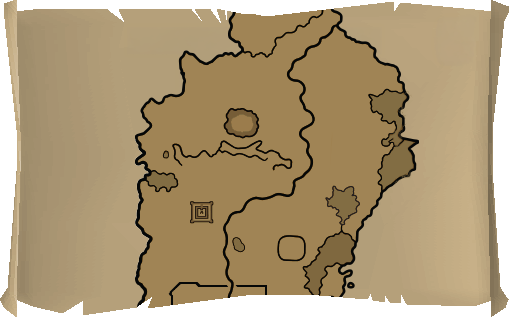
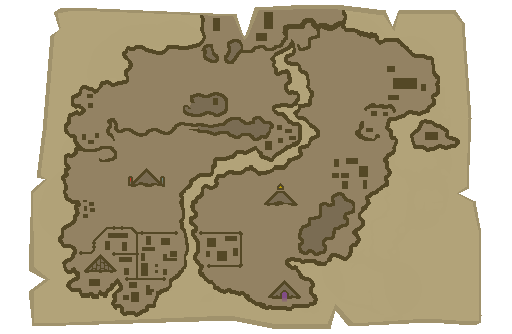
Tweaks following Magic Carpet addition. - Use new assets - Avoid leaking widgets - On carpet hover, highlight chat text - Highlight consistently with other maps - Avoid interface click-through

diff --git a/src/main/java/com/mjhylkema/TeleportMaps/components/MagicCarpetMap.java b/src/main/java/com/mjhylkema/TeleportMaps/components/MagicCarpetMap.java
@@ -13,6 +13,7 @@ import java.awt.image.BufferedImage;
 import java.util.ArrayList;
 import java.util.HashMap;
 import java.util.List;
+import java.util.Objects;
 import javax.inject.Inject;
 import lombok.extern.slf4j.Slf4j;
 import net.runelite.api.ChatMessageType;
@@ -38,8 +39,8 @@ public class MagicCarpetMap extends BaseMap
 
 	/* Sprite IDs, dimensions and positions */
 	private static final int MAP_SPRITE_ID = -19800;
-	private static final int MAP_SPRITE_WIDTH = 509;
-	private static final int MAP_SPRITE_HEIGHT = 317;
+	private static final int MAP_SPRITE_WIDTH = 512;
+	private static final int MAP_SPRITE_HEIGHT = 334;
 	private static final int CARPET_SPRITE_ID = -19801;
 	private static final int CARPET_HIGHLIGHTED_SPRITE_ID = -19802;
 	private static final int CARPET_SELECTED_SPRITE_ID = -19803;
@@ -47,17 +48,17 @@ public class MagicCarpetMap extends BaseMap
 	private static final int CLOSE_BUTTON_SPRITE_ID = 537;
 	private static final int CLOSE_BUTTON_WIDTH = 26;
 	private static final int CLOSE_BUTTON_HEIGHT = 23;
-	private static final int CLOSE_BUTTON_X = 447;
+	private static final int CLOSE_BUTTON_X = 427;
 	private static final int CLOSE_BUTTON_Y = 24;
 
 	/* The carpet's hover, selected and disabled sprites are generated
 	   from the single base image at startup */
 	private static final String IMG_CARPET = "/MagicCarpetMap/Carpet.png";
-	private static final Color HOVER_STROKE_INNER = new Color(238, 235, 18);
-	private static final Color HOVER_STROKE_OUTER = new Color(149, 150, 44);
-	private static final Color SELECTED_STROKE_INNER = new Color(106, 238, 18);
-	private static final Color SELECTED_STROKE_OUTER = new Color(86, 150, 44);
-	private static final float DISABLED_BRIGHTNESS = 0.55f;
+	private static final Color HOVER_STROKE_INNER = new Color(188, 144, 0);
+	private static final Color HOVER_STROKE_OUTER = new Color(255, 191, 0);
+	private static final Color SELECTED_STROKE_INNER = new Color(86, 150, 44);
+	private static final Color SELECTED_STROKE_OUTER = new Color(106, 238, 18);
+	private static final float DISABLED_BRIGHTNESS = 0.70f;
 
 	private static final int DIALOG_OPTION_GROUP_ID = 219;
 	private static final int DIALOG_OPTION_CONTAINER_CHILD = 1;
@@ -118,7 +119,7 @@ public class MagicCarpetMap extends BaseMap
 		BufferedImage base = ImageUtil.loadImageResource(TeleportMapsPlugin.class, IMG_CARPET);
 
 		this.registerSprite(CARPET_SPRITE_ID, base);
-		this.registerSprite(CARPET_HIGHLIGHTED_SPRITE_ID, outline(base, HOVER_STROKE_INNER, HOVER_STROKE_OUTER));
+		this.registerSprite(CARPET_HIGHLIGHTED_SPRITE_ID, outline(vibrant(base), HOVER_STROKE_INNER, HOVER_STROKE_OUTER));
 		this.registerSprite(CARPET_SELECTED_SPRITE_ID, outline(base, SELECTED_STROKE_INNER, SELECTED_STROKE_OUTER));
 		this.registerSprite(CARPET_DISABLED_SPRITE_ID, grayscale(base));
 	}
@@ -134,7 +135,7 @@ public class MagicCarpetMap extends BaseMap
 	 */
 	private static BufferedImage outline(BufferedImage image, Color inner, Color outer)
 	{
-		return ImageUtil.outlineImage(ImageUtil.outlineImage(image, inner), outer);
+		return ImageUtil.outlineImage(ImageUtil.outlineImage(image, inner,true), outer, true);
 	}
 
 	private static BufferedImage grayscale(BufferedImage image)
@@ -153,6 +154,42 @@ public class MagicCarpetMap extends BaseMap
 				out.setRGB(x, y, (a << 24) | (grey << 16) | (grey << 8) | grey);
 			}
 		}
+		return out;
+	}
+
+	private static BufferedImage vibrant(BufferedImage image)
+	{
+		BufferedImage out = new BufferedImage(
+				image.getWidth(),
+				image.getHeight(),
+				BufferedImage.TYPE_INT_ARGB
+		);
+
+		for (int y = 0; y < image.getHeight(); y++)
+		{
+			for (int x = 0; x < image.getWidth(); x++)
+			{
+				int argb = image.getRGB(x, y);
+
+				int a = (argb >>> 24);
+				int r = (argb >> 16) & 0xFF;
+				int g = (argb >> 8) & 0xFF;
+				int b = argb & 0xFF;
+
+				float[] hsb = java.awt.Color.RGBtoHSB(r, g, b, null);
+
+				// Increase saturation
+				hsb[1] = Math.min(1.0f, hsb[1] * 1.5f);
+
+				// Optionally increase brightness
+				hsb[2] = Math.min(1.0f, hsb[2] * 1.1f);
+
+				int rgb = java.awt.Color.HSBtoRGB(hsb[0], hsb[1], hsb[2]);
+
+				out.setRGB(x, y, (a << 24) | (rgb & 0x00FFFFFF));
+			}
+		}
+
 		return out;
 	}
 
@@ -318,8 +355,14 @@ public class MagicCarpetMap extends BaseMap
 		int mapY = Math.max(0, (screen.getHeight() - MAP_SPRITE_HEIGHT) / 2);
 
 		this.screenWidgets.clear();
-		this.trackScreenWidget(
-			this.createSpriteWidget(screen, MAP_SPRITE_WIDTH, MAP_SPRITE_HEIGHT, mapX, mapY, MAP_SPRITE_ID));
+
+		Widget map = this.createSpriteWidget(screen, MAP_SPRITE_WIDTH, MAP_SPRITE_HEIGHT, mapX, mapY, MAP_SPRITE_ID);
+		this.trackScreenWidget(map);
+
+		// Set hasListener / noClickThrough to disallow click-through
+		map.setHasListener(true);
+		map.setNoClickThrough(true);
+
 		this.createCarpetWidgets(screen, currentStation, options, mapX, mapY);
 		this.createCloseButton(screen, options, mapX, mapY);
 	}
@@ -382,18 +425,9 @@ public class MagicCarpetMap extends BaseMap
 		if (this.screenWidgets.isEmpty())
 			return;
 
-		// Snapshot the list; a new dialog may rebuild before the hide runs
-		final List<Widget> widgetsToHide = new ArrayList<>(this.screenWidgets);
 		this.screenWidgets.clear();
+		Objects.requireNonNull(getScreenContainer()).deleteAllChildren();
 		this.clearTeleports();
-
-		this.clientThread.invokeLater(() ->
-		{
-			for (Widget widget : widgetsToHide)
-			{
-				widget.setHidden(true);
-			}
-		});
 	}
 
 	/**
@@ -444,6 +478,13 @@ public class MagicCarpetMap extends BaseMap
 			{
 				carpetTeleport.setTeleportSprites(CARPET_SPRITE_ID, CARPET_HIGHLIGHTED_SPRITE_ID, CARPET_DISABLED_SPRITE_ID);
 				carpetTeleport.addAction(TRAVEL_ACTION, () -> this.triggerTravel(destinationOption));
+
+				carpetTeleport.addOnHoverListener((listener) -> {
+					destinationOption.widget.setTextColor(Color.WHITE.getRGB());
+				});
+				carpetTeleport.addOnLeaveListener((listener) -> {
+					destinationOption.widget.setTextColor(Color.BLACK.getRGB());
+				});
 
 				// The dialog options natively respond to their number key;
 				// child index lines up with the displayed option number

diff --git a/src/main/java/com/mjhylkema/TeleportMaps/ui/UIComponent.java b/src/main/java/com/mjhylkema/TeleportMaps/ui/UIComponent.java
@@ -24,10 +24,10 @@ public abstract class UIComponent
 	private List<MenuAction> actions;
 
 	@Setter
-	private UIComponentEventListener hoverListener;
+	private List<UIComponentEventListener> hoverListeners;
 
 	@Setter
-	private UIComponentEventListener leaveListener;
+	private List<UIComponentEventListener> leaveListeners;
 
 
 	/**
@@ -38,6 +38,8 @@ public abstract class UIComponent
 	{
 		this.widget = widget;
 
+
+
 		// Assign the event listeners to the widget
 		this.widget.setOnOpListener((JavaScriptCallback) this::onActionSelected);
 		this.widget.setOnMouseOverListener((JavaScriptCallback) this::onMouseHover);
@@ -45,6 +47,8 @@ public abstract class UIComponent
 		this.widget.setHasListener(true);
 
 		this.actions = new ArrayList<>();
+		this.hoverListeners = new ArrayList<>();
+		this.leaveListeners = new ArrayList<>();
 	}
 
 	/**
@@ -83,8 +87,8 @@ public abstract class UIComponent
 	protected void onMouseHover(ScriptEvent e)
 	{
 		// If a hover event is specified, trigger it
-		if (this.hoverListener != null)
-			this.hoverListener.onComponentEvent(this);
+		for (UIComponentEventListener listener : this.hoverListeners)
+			listener.onComponentEvent(this);
 	}
 
 	/**
@@ -94,8 +98,8 @@ public abstract class UIComponent
 	protected void onMouseLeave(ScriptEvent e)
 	{
 		// If a leave event is specified, trigger it
-		if (this.leaveListener != null)
-			this.leaveListener.onComponentEvent(this);
+		for (UIComponentEventListener listener : this.leaveListeners)
+			listener.onComponentEvent(this);
 	}
 
 	/**
@@ -103,9 +107,9 @@ public abstract class UIComponent
 	 * hovering over the widget
 	 * @param listener the listener
 	 */
-	public void setOnHoverListener(UIComponentEventListener listener)
+	public void addOnHoverListener(UIComponentEventListener listener)
 	{
-		this.hoverListener = listener;
+		this.hoverListeners.add(listener);
 	}
 
 	/**
@@ -113,9 +117,9 @@ public abstract class UIComponent
 	 * exiting from over the widget
 	 * @param listener the listener
 	 */
-	public void setOnLeaveListener(UIComponentEventListener listener)
+	public void addOnLeaveListener(UIComponentEventListener listener)
 	{
-		this.leaveListener = listener;
+		this.leaveListeners.add(listener);
 	}
 
 	/**

diff --git a/src/main/java/com/mjhylkema/TeleportMaps/ui/UITeleport.java b/src/main/java/com/mjhylkema/TeleportMaps/ui/UITeleport.java
@@ -19,8 +19,8 @@ public class UITeleport extends UIComponent
 	public UITeleport(Widget groupWidget, Widget teleport)
 	{
 		super(groupWidget);
-		this.setOnHoverListener(this::onHover);
-		this.setOnLeaveListener(this::onLeave);
+		this.addOnHoverListener(this::onHover);
+		this.addOnLeaveListener(this::onLeave);
 
 		this.teleportButton = new UIButton(teleport);
 	}

diff --git a/src/main/java/com/mjhylkema/TeleportMaps/definition/MagicCarpetDefinition.java b/src/main/java/com/mjhylkema/TeleportMaps/definition/MagicCarpetDefinition.java
@@ -6,9 +6,9 @@ import lombok.Getter;
 public class MagicCarpetDefinition
 {
 	@Getter
-	static private final int width = 15;
+	static private final int width = 24;
 	@Getter
-	static private final int height = 24;
+	static private final int height = 33;
 
 	private String name;
 	private int x;
